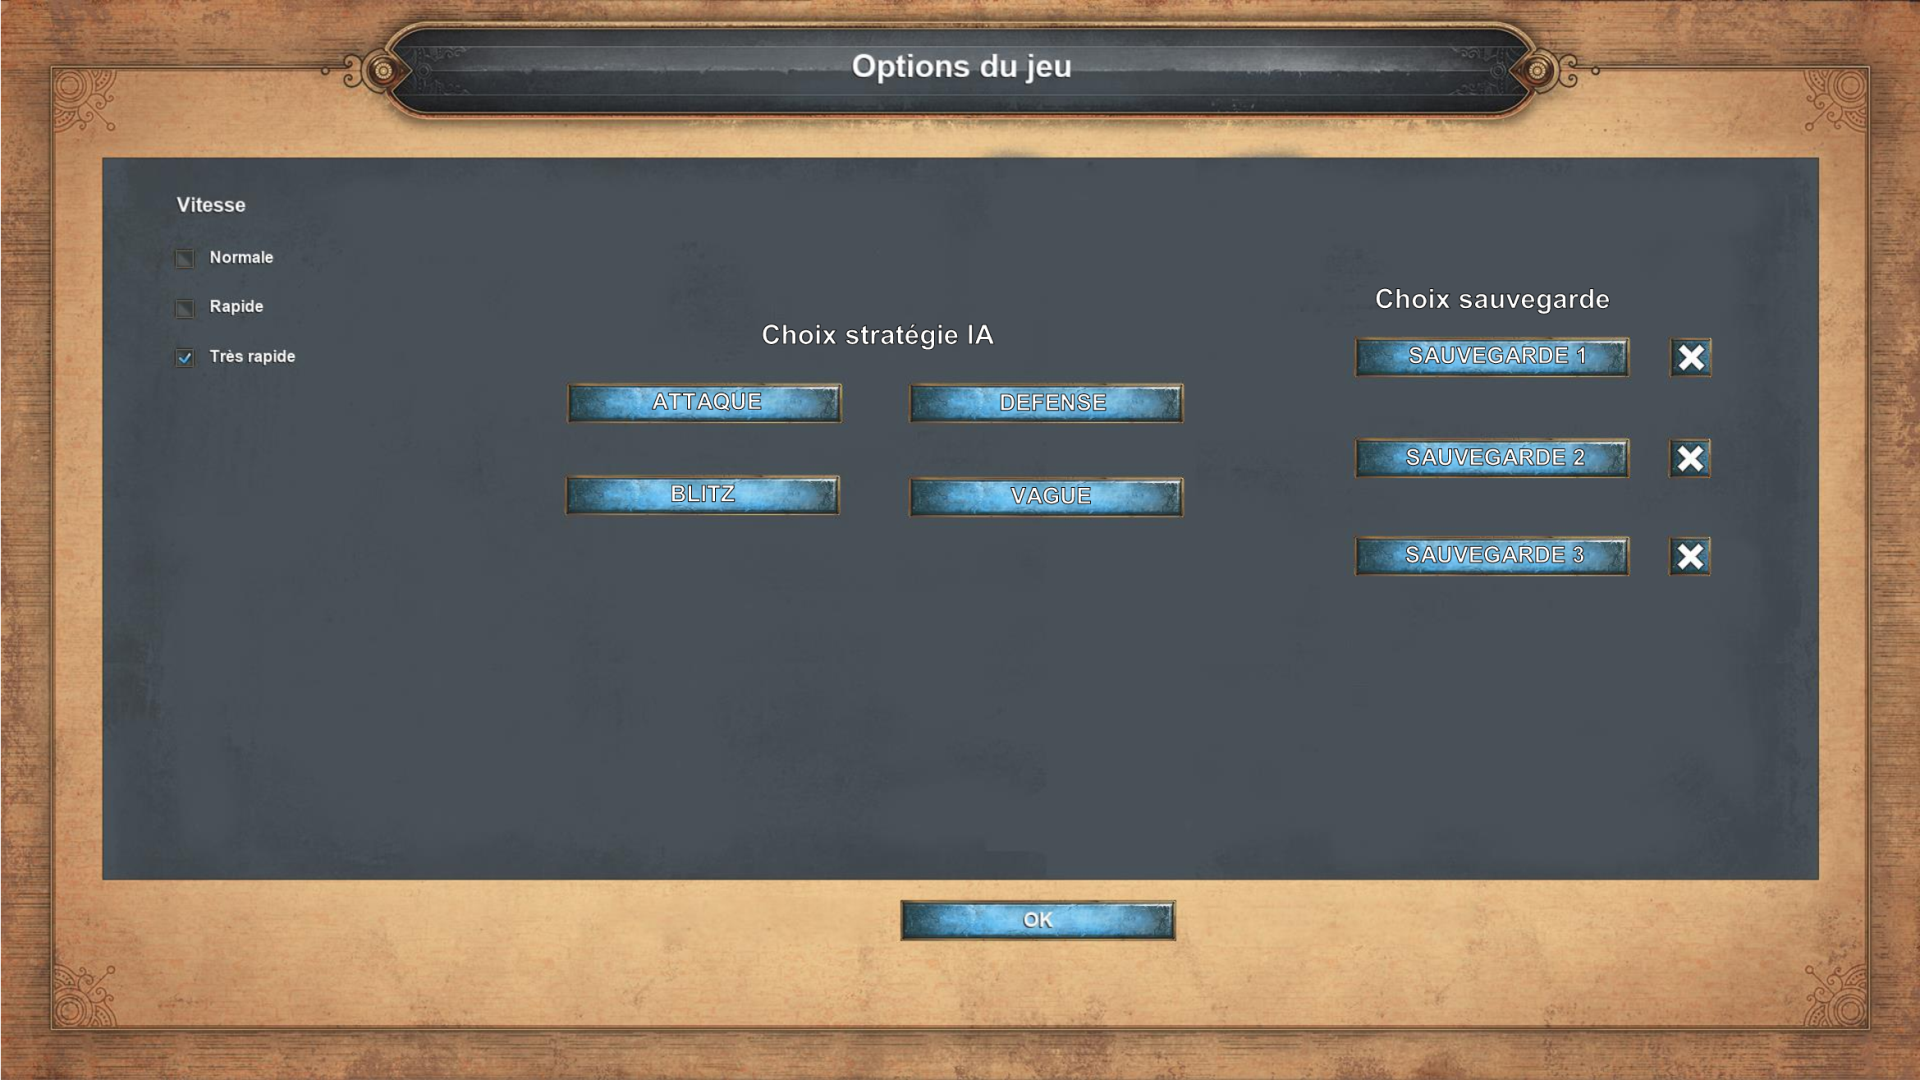
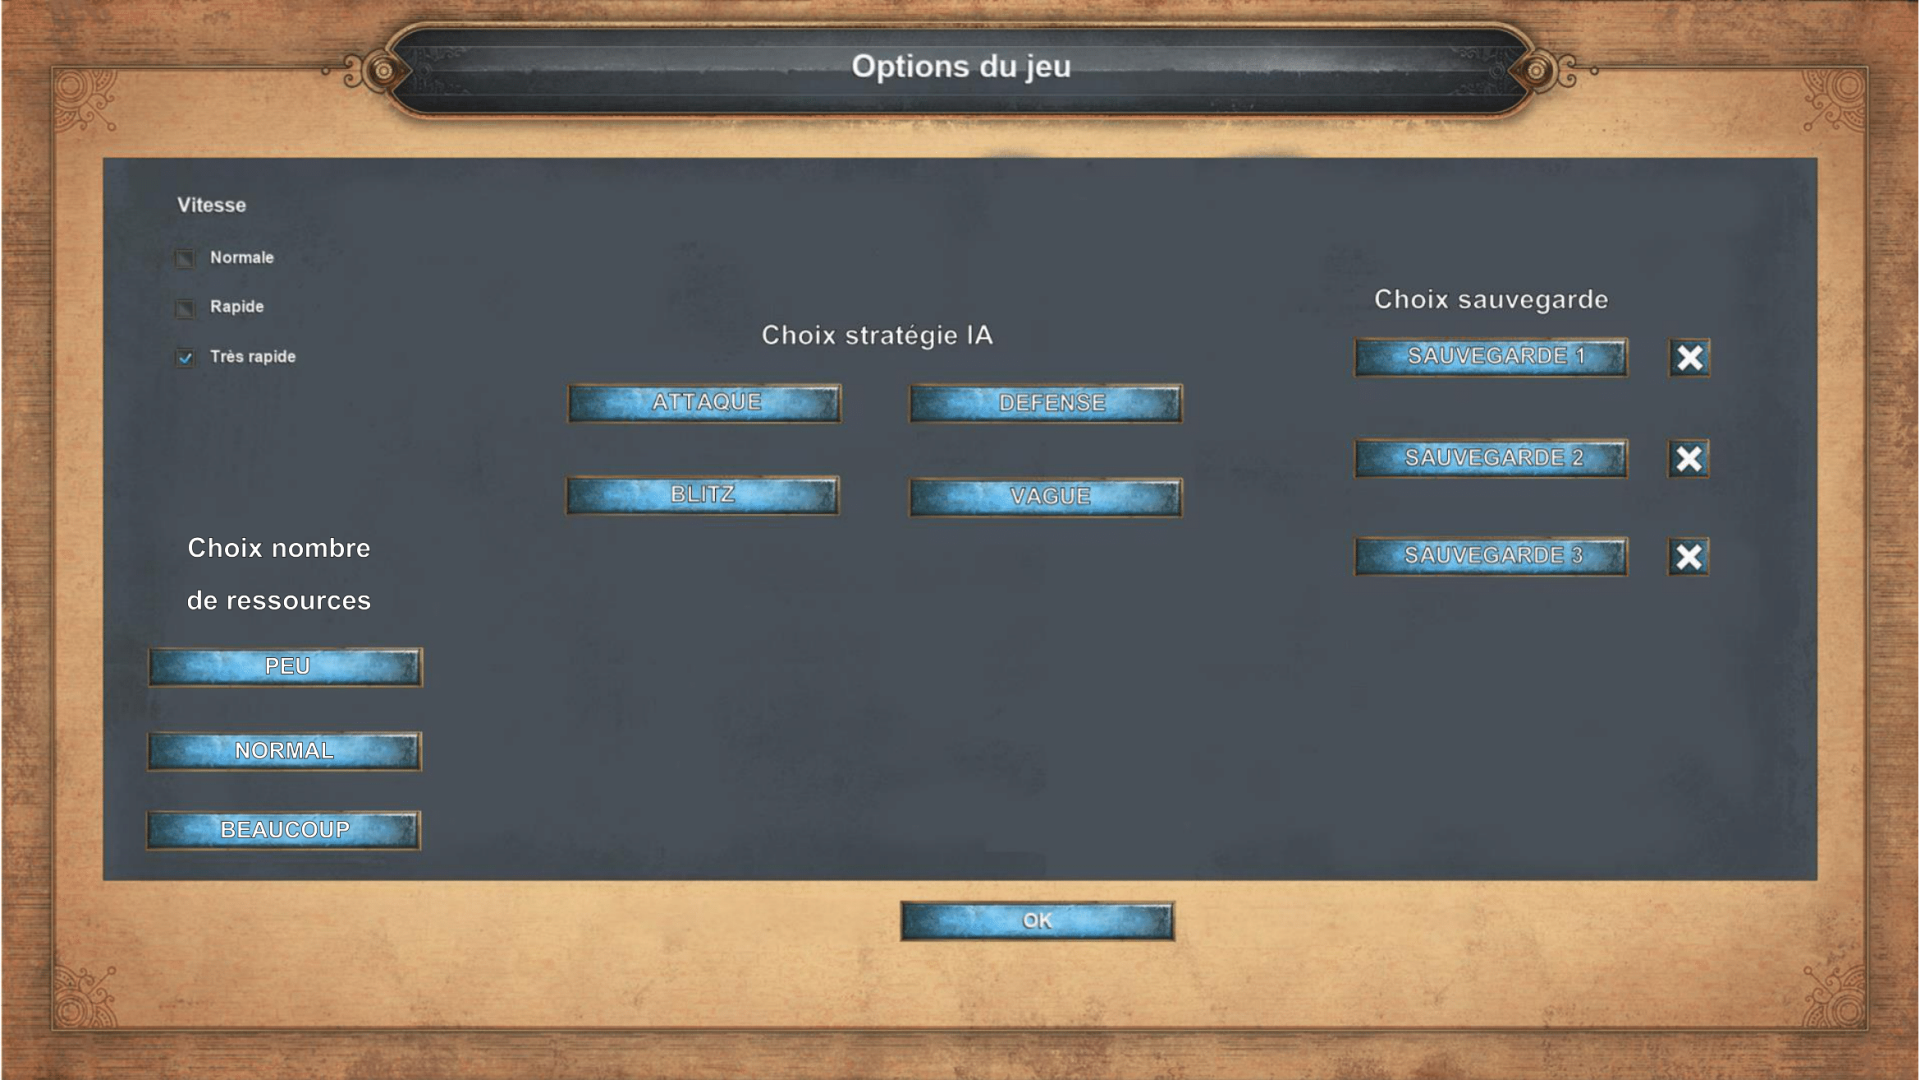
ajout choix ressources + nnew arbres (trop beaux)

diff --git a/game/ecranOptions.py b/game/ecranOptions.py
@@ -51,6 +51,15 @@ class Options:
                 pygame.draw.rect(self.screen, (255, 215, 50), (565, 474, 275, 41), 3)
 
 
+            if definitions.clik_ress == 1:
+                pygame.draw.rect(self.screen, (255, 215, 50), (147, 647, 277, 41), 3)
+            elif definitions.clik_ress == 2:
+                pygame.draw.rect(self.screen, (255, 215, 50), (147, 732, 275, 41), 3)
+            elif definitions.clik_ress == 3:
+                pygame.draw.rect(self.screen, (255, 215, 50), (145, 811, 277, 41), 3)
+
+
+
             draw_text(self.screen, 'Options', 30, WHITE, (20, 20))
             mx, my = pygame.mouse.get_pos()  # récupération des clics de souris
 
@@ -72,6 +81,10 @@ class Options:
             button_defense = pygame.Rect(909, 383, 275, 38)
             button_blitz = pygame.Rect(908, 477, 275, 38)
             button_vague = pygame.Rect(565, 474, 275, 38)
+
+            button_peu = pygame.Rect(147, 647, 275, 38)
+            button_normress = pygame.Rect(147, 732, 275, 38)
+            button_beaucoup = pygame.Rect(147, 811, 275, 38)
 
 
             if button_ok.collidepoint((mx, my)): #zone de collision des boutons et action quand cliqué
@@ -168,6 +181,25 @@ class Options:
 
 
 
+            if button_peu.collidepoint((mx, my)): #zone de collision des boutons et action quand cliqué
+                pygame.draw.rect(self.screen, (255, 255, 255), (147, 647, 277, 41), 3)
+                if click:
+                    definitions.INIT_RESSOURCE = [50, 50, 0, 0]
+                    definitions.clik_ress = 1
+
+            if button_normress.collidepoint((mx, my)): #zone de collision des boutons et action quand cliqué
+                pygame.draw.rect(self.screen, (255, 255, 255), (147, 732, 275, 41), 3)
+                if click:
+                    definitions.INIT_RESSOURCE = [200, 200, 0, 0]
+                    definitions.clik_ress = 2
+
+            if button_beaucoup.collidepoint((mx, my)): #zone de collision des boutons et action quand cliqué
+                pygame.draw.rect(self.screen, (255, 255, 255), (145, 811, 277, 41), 3)
+                if click:
+                    definitions.INIT_RESSOURCE = [500, 500, 0, 0]
+                    definitions.clik_ress = 3
+
+
 
             # dessin des boutons pour s'assurer de leur bonne position
             # commentez les 3 lignes pour enlever les rectangles jaunes
@@ -185,6 +217,9 @@ class Options:
             # pygame.draw.rect(self.screen, (255, 215, 50), button_defense)
             # pygame.draw.rect(self.screen, (255, 215, 50), button_blitz)
             # pygame.draw.rect(self.screen, (255, 215, 50), button_vague)
+            # pygame.draw.rect(self.screen, (255, 215, 50), button_peu)
+            # pygame.draw.rect(self.screen, (255, 215, 50), button_normress)
+            # pygame.draw.rect(self.screen, (255, 215, 50), button_beaucoup)
 
 
             click = False

diff --git a/game/ecranSave.py b/game/ecranSave.py
@@ -73,7 +73,7 @@ class Save:
                         button_oui = pygame.Rect(745, 666, 230, 50)  # -> bouton oui
                         #pygame.draw.rect(self.screen, (255, 230, 60), button_oui)
                         if button_oui.collidepoint((mx, my)):
-                            pygame.draw.rect(self.screen, (255, 255, 255), (745, 663, 230, 53), 3)
+                            pygame.draw.rect(self.screen, (255, 255, 255), (745, 664, 230, 52), 3)
                             if click:
                                 pygame.quit()
                                 sys.exit()
@@ -81,7 +81,7 @@ class Save:
                         button_non = pygame.Rect(1005, 666, 230, 50)  # -> bouton non
                         #pygame.draw.rect(self.screen, (255, 215, 50), button_non)
                         if button_non.collidepoint((mx, my)):
-                            pygame.draw.rect(self.screen, (255, 255, 255), (1004, 663, 230, 53), 3)
+                            pygame.draw.rect(self.screen, (255, 255, 255), (1004, 664, 230, 52), 3)
                             if click:
                                 image2 = pygame.image.load('assets/black.png').convert_alpha()
                                 self.screen.blit(image2, (0, 0))

diff --git a/game/Ressource.py b/game/Ressource.py
@@ -18,10 +18,10 @@ class Ressource:
         
         # resources
         self.resources = {
-            "wood": INIT_RESSOURCE[0],
-            "food": INIT_RESSOURCE[1],
-            "gold": INIT_RESSOURCE[2],
-            "stone": INIT_RESSOURCE[3]
+            "wood": definitions.INIT_RESSOURCE[0],
+            "food": definitions.INIT_RESSOURCE[1],
+            "gold": definitions.INIT_RESSOURCE[2],
+            "stone": definitions.INIT_RESSOURCE[3]
         }
 
         #costs

diff --git a/game/definitions.py b/game/definitions.py
@@ -25,7 +25,6 @@ MAP_SIZE = 50
 
 #Resource
 LES_RESSOURCES = ["wood", "food", "gold", "stone"]
-INIT_RESSOURCE = [200, 200, 0, 0]
 NB_RESSOURCES = [150,100,600,600]  #Nombre de bois par arbres, de food par buisson, de gold etc
 
 #Fonts
@@ -65,6 +64,12 @@ def init():
 
     global clik_ia
     clik_ia = 0
+
+    global clik_ress
+    clik_ress = 0
+
+    global INIT_RESSOURCE
+    INIT_RESSOURCE = [200, 200, 0, 0]
 
     # Saves
     global SAVED_GAME_FOLDER
